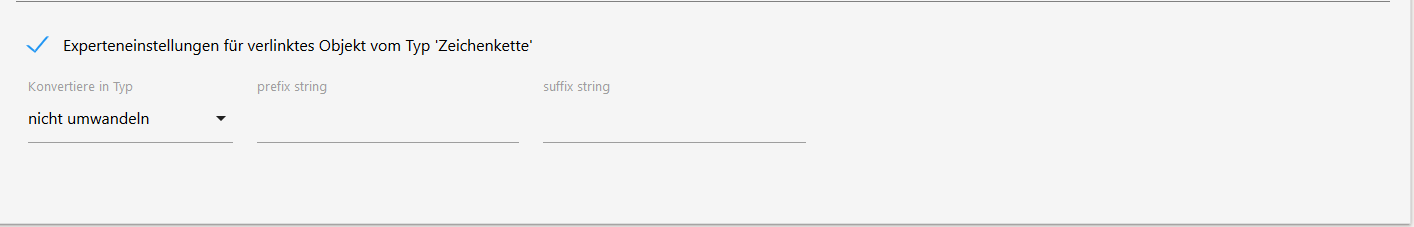
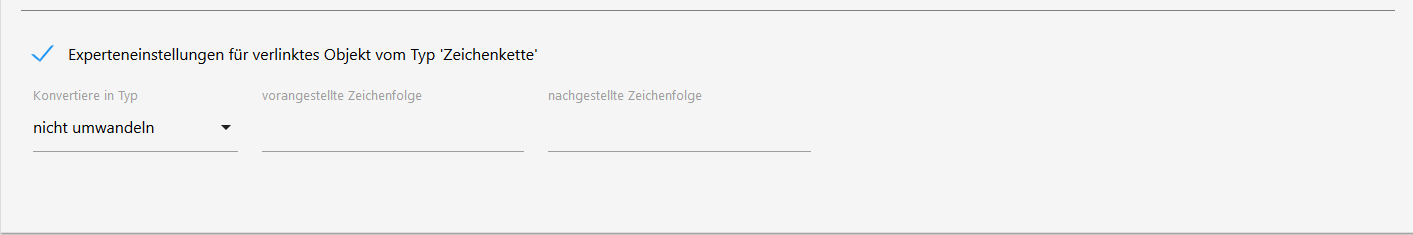
de docu updated

diff --git a/admin/words.js b/admin/words.js
@@ -744,5 +744,29 @@ systemDictionary = {
 		"es": "Más información sobre el formato de visualización.",
 		"pl": "więcej informacji o formacie wyświetlania",
 		"zh-cn": "有关显示格式的更多信息"
+	},
+	"prefix string": {
+		"en": "prefix string",
+		"de": "vorangestellte Zeichenfolge",
+		"ru": "префиксная строка",
+		"pt": "prefixo de string",
+		"nl": "voorvoegsel tekenreeks",
+		"fr": "chaîne de préfixe",
+		"it": "stringa prefisso",
+		"es": "cadena de prefijo",
+		"pl": "przedrostek ciąg",
+		"zh-cn": "前缀字符串"
+	},
+	"suffix string": {
+		"en": "suffix string",
+		"de": "nachgestellte Zeichenfolge",
+		"ru": "строка суффикса",
+		"pt": "string de sufixo",
+		"nl": "achtervoegsel string",
+		"fr": "chaîne de suffixe",
+		"it": "stringa del suffisso",
+		"es": "cadena de sufijo",
+		"pl": "łańcuch sufiksów",
+		"zh-cn": "后缀字符串"
 	}
 };
